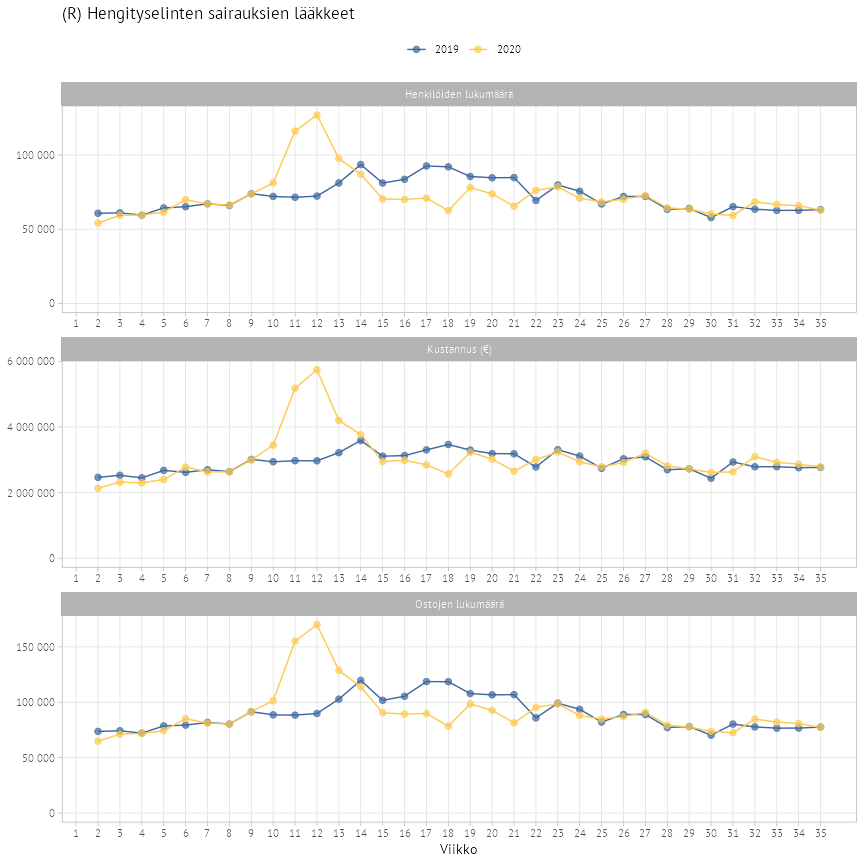
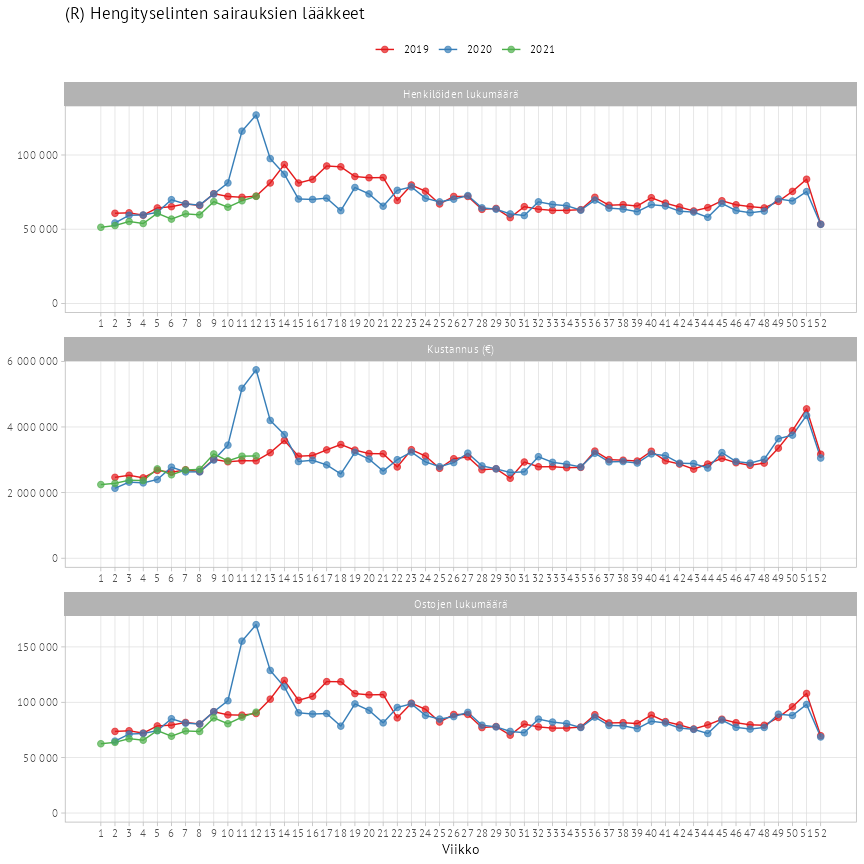
Esimerkit päivitetty

diff --git a/README.md b/README.md
@@ -23,7 +23,7 @@ atc-luokan ja sairaanhoitopiirin mukaan viikkotasolla sisältäen
 seuraavat muuttujat:
 
 | CODE             | CLASS     | NAME                         | DESCRIPTION                                                                                                                                                                                                                                               |
-| :--------------- | :-------- | :--------------------------- | :-------------------------------------------------------------------------------------------------------------------------------------------------------------------------------------------------------------------------------------------------------- |
+|:-----------------|:----------|:-----------------------------|:----------------------------------------------------------------------------------------------------------------------------------------------------------------------------------------------------------------------------------------------------------|
 | ALUEKOODI        | numeric   | Alueen koodi                 | Koko Suomen koodi on 99. SHP-koodit Tilastokeskuksen koodiston mukaiset SHP-tieto perustuu lääkkeen ostajan asuinkuntaan, joka vuoden 2019 osalta perustuu vuoden lopun tietoon ja vuoden 2020 osalta uusimpaan saatavilla olevaan tietoon.               |
 | ALUENIMI\_EN     | character | Region name in English       | Region name in English                                                                                                                                                                                                                                    |
 | ALUENIMI\_FI     | character | Alueen nimi suomeksi         | Koko Suomi tai sairaanhoitopiirin nimi. SHP-nimet Tilastokeskuksen koodiston mukaiset SHP-tieto perustuu lääkkeen ostajan asuinkuntaan, joka vuoden 2019 osalta perustuu vuoden lopun tietoon ja vuoden 2020 osalta uusimpaan saatavilla olevaan tietoon. |
@@ -43,16 +43,22 @@ seuraavat muuttujat:
 ## Aineiston käyttäminen
 
 Sovelluksen käyttämä aineisto on vapaasti käytettävissä [Nimeä 4.0
-Kansainvälinen (CC
-BY 4.0)](https://creativecommons.org/licenses/by/4.0/deed.fi)-lisenssin
+Kansainvälinen (CC BY
+4.0)](https://creativecommons.org/licenses/by/4.0/deed.fi)-lisenssin
 ehdoilla.
 
 Klikkaa linkistä hiiren oikealla näppäimellä ja valitse “tallenna linkki
 nimellä” ja anna tiedostopäätteeksi `csv`.
 
-  - Lataa
-    <a href="https://github.com/kelaresearchandanalytics/korona_atc_data/raw/master/data_viikko.csv" download="data_viikko.csv">data\_viikko.csv</a>
-  - Lataa
+Itse data on pilkottu vuosittaisiin tiedostoihin
+
+-   Lataa
+    <a href="https://github.com/kelaresearchandanalytics/korona_atc_data/raw/master/data_viikko_2019.csv" download="data_viikko_2019.csv">data\_viikko\_2019.csv</a>
+-   Lataa
+    <a href="https://github.com/kelaresearchandanalytics/korona_atc_data/raw/master/data_viikko_2020.csv" download="data_viikko_2020.csv">data\_viikko\_2020.csv</a>
+-   Lataa
+    <a href="https://github.com/kelaresearchandanalytics/korona_atc_data/raw/master/data_viikko_2021.csv" download="data_viikko_2021.csv">data\_viikko\_2021.csv</a>
+-   Lataa
     <a href="https://github.com/kelaresearchandanalytics/korona_atc_data/raw/master/metadata_viikko.csv" download="metadata_viikko.csv">metadata\_viikko.csv</a>
 
 Aineisto päivittyy kerran viikossa keskiviikkoaamuisin.
@@ -62,17 +68,21 @@ Aineisto päivittyy kerran viikossa keskiviikkoaamuisin.
 **Datojen lataaminen**
 
 ``` r
-df <- readr::read_csv2('https://github.com/kelaresearchandanalytics/korona_atc_data/raw/master/data_viikko.csv')
+df <- bind_rows(
+  readr::read_csv2('https://github.com/kelaresearchandanalytics/korona_atc_data/raw/master/data_viikko_2019.csv'),
+  readr::read_csv2('https://github.com/kelaresearchandanalytics/korona_atc_data/raw/master/data_viikko_2020.csv'),
+  readr::read_csv2('https://github.com/kelaresearchandanalytics/korona_atc_data/raw/master/data_viikko_2021.csv')
+)
 head(df)
 #> # A tibble: 6 x 15
 #>   VUOSI VIIKKO VAR_KUSTANNUS VAR_N_OSTOT VAR_N_HENKILOT ATC_KOODI ATC_SELITE_FI
 #>   <dbl>  <dbl>         <dbl>       <dbl>          <dbl> <chr>     <chr>        
-#> 1  2020      2     33535483.      902657         495550 <NA>      (NA) NA      
-#> 2  2020      3     36844909.      989197         535830 <NA>      (NA) NA      
-#> 3  2020      4     36361103.      991607         532748 <NA>      (NA) NA      
-#> 4  2020      5     36850202.      979941         528581 <NA>      (NA) NA      
-#> 5  2020      6     41474529.     1090126         578880 <NA>      (NA) NA      
-#> 6  2020      7     39637069.     1035264         556701 <NA>      (NA) NA      
+#> 1  2019      2     36375566.      956694         528534 <NA>      (NA) NA      
+#> 2  2019      3     36919671.      959393         526708 <NA>      (NA) NA      
+#> 3  2019      4     37345883.      945287         519017 <NA>      (NA) NA      
+#> 4  2019      5     39602251.      991698         540596 <NA>      (NA) NA      
+#> 5  2019      6     38800197.     1008379         550861 <NA>      (NA) NA      
+#> 6  2019      7     38803541.     1003305         551353 <NA>      (NA) NA      
 #> # … with 8 more variables: ATC_SELITE_SV <chr>, ATC_SELITE_EN <chr>,
 #> #   ALUEKOODI <dbl>, ATC_TASO <dbl>, ALUENIMI_FI <chr>, ALUENIMI_SV <chr>,
 #> #   ALUENIMI_EN <chr>, UPDATED <dttm>
@@ -84,12 +94,12 @@ head(meta)
 #> # A tibble: 6 x 6
 #>   CODE    VALUES    CLASS  NAME     DESCRIPTION              UPDATED            
 #>   <chr>   <chr>     <chr>  <chr>    <chr>                    <dttm>             
-#> 1 VUOSI   <NA>      numer… Vuosi    Vuosi                    2020-08-26 08:45:07
-#> 2 ALUENI… Koko Suo… chara… Alueen … Koko Suomi tai sairaanh… 2020-08-26 08:45:07
-#> 3 ALUENI… Varsinai… chara… Alueen … Koko Suomi tai sairaanh… 2020-08-26 08:45:07
-#> 4 ALUENI… Satakunn… chara… Alueen … Koko Suomi tai sairaanh… 2020-08-26 08:45:07
-#> 5 ALUENI… Kanta-Hä… chara… Alueen … Koko Suomi tai sairaanh… 2020-08-26 08:45:07
-#> 6 ALUENI… Pirkanma… chara… Alueen … Koko Suomi tai sairaanh… 2020-08-26 08:45:07
+#> 1 ALUENI… Koko Suo… chara… Alueen … Koko Suomi tai sairaanh… 2021-04-01 09:35:41
+#> 2 ALUENI… Varsinai… chara… Alueen … Koko Suomi tai sairaanh… 2021-04-01 09:35:41
+#> 3 ALUENI… Satakunn… chara… Alueen … Koko Suomi tai sairaanh… 2021-04-01 09:35:41
+#> 4 ALUENI… Kanta-Hä… chara… Alueen … Koko Suomi tai sairaanh… 2021-04-01 09:35:41
+#> 5 ALUENI… Pirkanma… chara… Alueen … Koko Suomi tai sairaanh… 2021-04-01 09:35:41
+#> 6 ALUENI… Päijät-H… chara… Alueen … Koko Suomi tai sairaanh… 2021-04-01 09:35:41
 ```
 
 **Viivakuvio ATC-luokasta `R`**
@@ -117,8 +127,8 @@ ggplot(dat, aes(x = viikko, y = arvo, color = factor(vuosi))) +
              y = NULL,
              title = unique(dat$atc_selite_fi),
              x = "Viikko") +
-        scale_fill_manual(values = c("#3F679F","#FDCA50")) +
-        scale_color_manual(values = c("#3F679F","#FDCA50")) +
+        scale_fill_manual(values = c('#e41a1c','#377eb8','#4daf4a')) +
+        scale_color_manual(values = c('#e41a1c','#377eb8','#4daf4a')) +
         theme_light(base_family = "PT Sans") +
         theme(legend.position = "top", 
               panel.grid.minor = element_blank()) +
@@ -129,8 +139,8 @@ ggplot(dat, aes(x = viikko, y = arvo, color = factor(vuosi))) +
 
 ![](README-unnamed-chunk-5-1.png)<!-- -->
 
-**Kartta sairaanhoitopiireittäisestä ostomäärien suhteellisesta erosta
-viikolla 12 ATC-luokassa `R`**
+**Kartta sairaanhoitopiireittäisistä ostomääristä viikolla 12
+ATC-luokassa `R`**
 
 ``` r
 library(geofi)
@@ -138,10 +148,7 @@ dat <- df %>%
   filter(ALUEKOODI != 99,
          VIIKKO == 12,
          ATC_KOODI == "R") %>% 
-  select(-VAR_N_OSTOT,-VAR_N_HENKILOT) %>% 
-  tidyr::pivot_wider(names_from = VUOSI, 
-                      values_from = VAR_KUSTANNUS) %>% 
-  mutate(`ero (%)` = round(`2020` / `2019` * 100, 1)-100) %>% 
+  select(-VAR_N_OSTOT,-VAR_N_HENKILOT,-UPDATED) %>% 
   left_join(meta, by = c("ATC_KOODI" = "CODE")) %>% 
   setNames(tolower(names(.))) 
 
@@ -153,11 +160,12 @@ shp <- muni %>%
 
 mapd <- left_join(shp,dat, by = c("sairaanhoitop_code" = "aluekoodi"))
 
-ggplot(mapd, aes(fill = `ero (%)`, label = paste0(aluenimi_fi,"\n", `ero (%)`,"%"))) +
+ggplot(mapd, aes(fill = var_kustannus, label = paste0(aluenimi_fi,"\n", var_kustannus ))) +
   geom_sf(color = alpha("white", 1/3)) +
   scale_fill_viridis_b() +
   theme_minimal(base_family = "PT Sans") +
   geom_sf_label(size = 3, color = "white", alpha = .7, family = "PT Sans") +
+  facet_wrap(~vuosi) +
   theme(axis.text = element_blank(),
            axis.title = element_blank(),
            panel.grid = element_blank()) +
@@ -166,53 +174,3 @@ ggplot(mapd, aes(fill = `ero (%)`, label = paste0(aluenimi_fi,"\n", `ero (%)`,"%
 ```
 
 ![](README-unnamed-chunk-6-1.png)<!-- -->
-
-**Hajontakuvio sairaanhoitopiireittäisestä ostomäärien suhteellisesta
-erosta viikolla 12 ATC-luokassa `R`**
-
-``` r
-library(geofi)
-dat <- df %>% 
-  filter(ALUEKOODI != 99,
-         VIIKKO == 12,
-         ATC_KOODI == "R") %>% 
-  select(-VAR_N_OSTOT,-VAR_N_HENKILOT) %>% 
-  tidyr::pivot_wider(names_from = VUOSI, 
-                      values_from = VAR_KUSTANNUS) %>% 
-  mutate(`ero (%)` = round(`2020` / `2019` * 100, 1)-100) %>% 
-  left_join(meta, by = c("ATC_KOODI" = "CODE")) %>% 
-  setNames(tolower(names(.))) 
-
-
-# PXWEB query 
-library(pxweb)
-library(tidyr)
-datplot <- pxweb_get(url = "http://pxnet2.stat.fi/PXWeb/api/v1/fi/Kuntien_avainluvut/2020/kuntien_avainluvut_2020_viimeisin.px",
-            query = list("Alue 2020"=c("*"),
-       "Tiedot"=c("M411","M478"))) %>% 
-  as.data.frame(column.name.type = "text", variable.value.type = "text") %>% 
-  pivot_wider(names_from = Tiedot, values_from = `Kuntien avainluvut`) %>% 
-  left_join(geofi::municipality_key_2020, by = c("Alue 2020" = "name_fi")) %>% 
-  group_by(sairaanhoitop_code) %>% 
-  summarise(`Yli 64-vuotiaiden osuus väestöstä, %, 2019` = weighted.mean(x = `Yli 64-vuotiaiden osuus väestöstä, %, 2019`, 
-                                                                         w = `Väkiluku, 2019`),
-            `Väkiluku, 2019` = sum(`Väkiluku, 2019`)) %>% 
-  left_join(dat, by = c("sairaanhoitop_code" = "aluekoodi"))
-  
-
-
-ggplot(datplot, aes(x = `Yli 64-vuotiaiden osuus väestöstä, %, 2019`, 
-                    y = `ero (%)`, 
-                    size = `Väkiluku, 2019`,
-                    color = aluenimi_fi,
-                    label = aluenimi_fi)) +
-  geom_point(alpha = .7) +
-  theme_light(base_family = "PT Sans") +
-  ggrepel::geom_label_repel(size = 3, family = "PT Sans") +
-  scale_radius(range=c(1, 30)) +
-  theme(legend.position = "none") +
-  labs(title = "ATC-luokan R (Hengityselinten sairauksien lääkkeet) kustannusten \nprosentuaalisen eron (2019 vs. 2020) viikolla 12 ja \nyli 64-vuotiaiden väestöosuuden (2019) yhteys sairaanhoitopiireittäin",
-       subtitle = "Pisteen koko on sairaanhoitopiirin väestömäärä")
-```
-
-![](README-unnamed-chunk-7-1.png)<!-- -->
